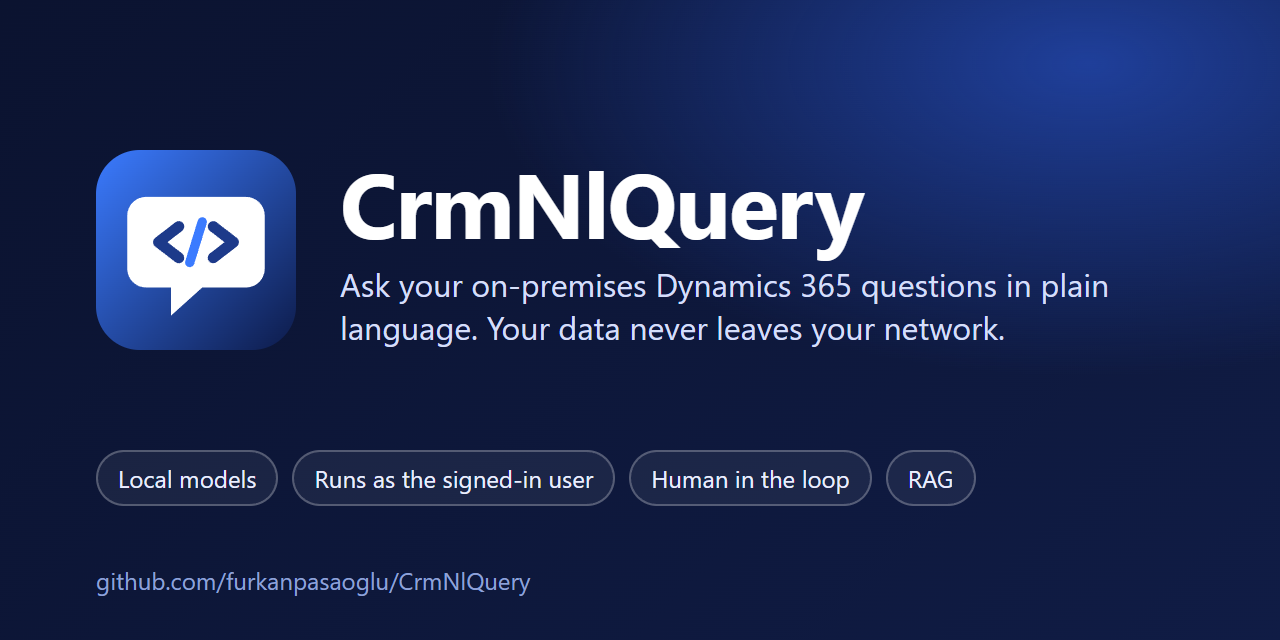
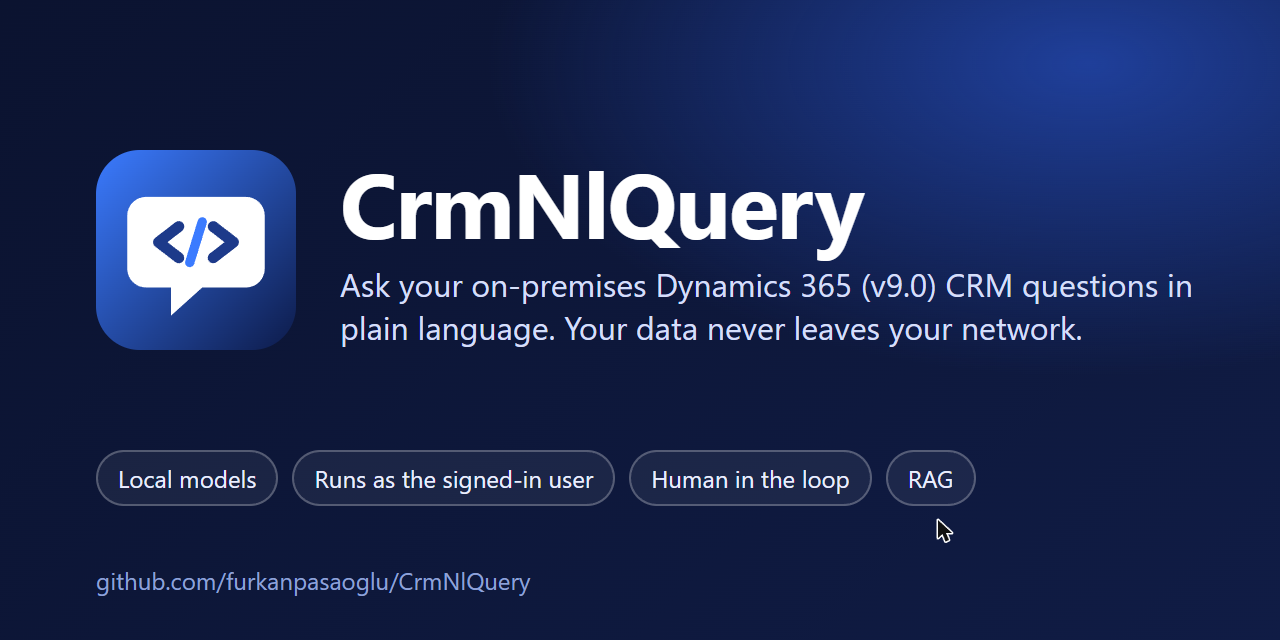
docs: state the supported Dynamics 365 version (on-premises v9.0) in the tagline, badge and preview image

Changed region(s): [[0.25, 0.5, 0.8438, 0.5625], [0.6562, 0.4062, 0.9375, 0.4688], [0.7188, 0.8125, 0.75, 0.8438]]

diff --git a/README.tr.md b/README.tr.md
@@ -5,7 +5,7 @@
 <h1 align="center">CrmNlQuery</h1>
 
 <p align="center">
-  <b>Şirket içi Dynamics 365'inize sade bir dille soru sorun.<br>Verileriniz ağınızdan dışarı çıkmaz.</b>
+  <b>Şirket içi (on-premises) Dynamics 365 (v9.0) CRM'inize sade bir dille soru sorun.<br>Verileriniz ağınızdan dışarı çıkmaz.</b>
 </p>
 
 <p align="center">
@@ -13,7 +13,7 @@
   <img alt="Lisans: MIT" src="https://img.shields.io/badge/lisans-MIT-blue.svg">
   <img alt=".NET 10" src="https://img.shields.io/badge/.NET-10-512BD4.svg">
   <img alt="Docker" src="https://img.shields.io/badge/docker-compose-2496ED.svg">
-  <img alt="Dynamics 365 on-premises" src="https://img.shields.io/badge/Dynamics%20365-on--premises-002050.svg">
+  <img alt="Dynamics 365 on-premises v9.0" src="https://img.shields.io/badge/Dynamics%20365-on--premises%20v9.0-002050.svg">
   <img alt="Yerel modeller" src="https://img.shields.io/badge/modeller-Ollama%20%7C%20vLLM-black.svg">
 </p>
 

diff --git a/README.md b/README.md
@@ -5,7 +5,7 @@
 <h1 align="center">CrmNlQuery</h1>
 
 <p align="center">
-  <b>Ask your on-premises Dynamics 365 questions in plain language.<br>Your data never leaves your network.</b>
+  <b>Ask your on-premises Dynamics 365 (v9.0) CRM questions in plain language.<br>Your data never leaves your network.</b>
 </p>
 
 <p align="center">
@@ -13,7 +13,7 @@
   <img alt="License: MIT" src="https://img.shields.io/badge/license-MIT-blue.svg">
   <img alt=".NET 10" src="https://img.shields.io/badge/.NET-10-512BD4.svg">
   <img alt="Docker" src="https://img.shields.io/badge/docker-compose-2496ED.svg">
-  <img alt="Dynamics 365 on-premises" src="https://img.shields.io/badge/Dynamics%20365-on--premises-002050.svg">
+  <img alt="Dynamics 365 on-premises v9.0" src="https://img.shields.io/badge/Dynamics%20365-on--premises%20v9.0-002050.svg">
   <img alt="Local models" src="https://img.shields.io/badge/models-Ollama%20%7C%20vLLM-black.svg">
 </p>
 
